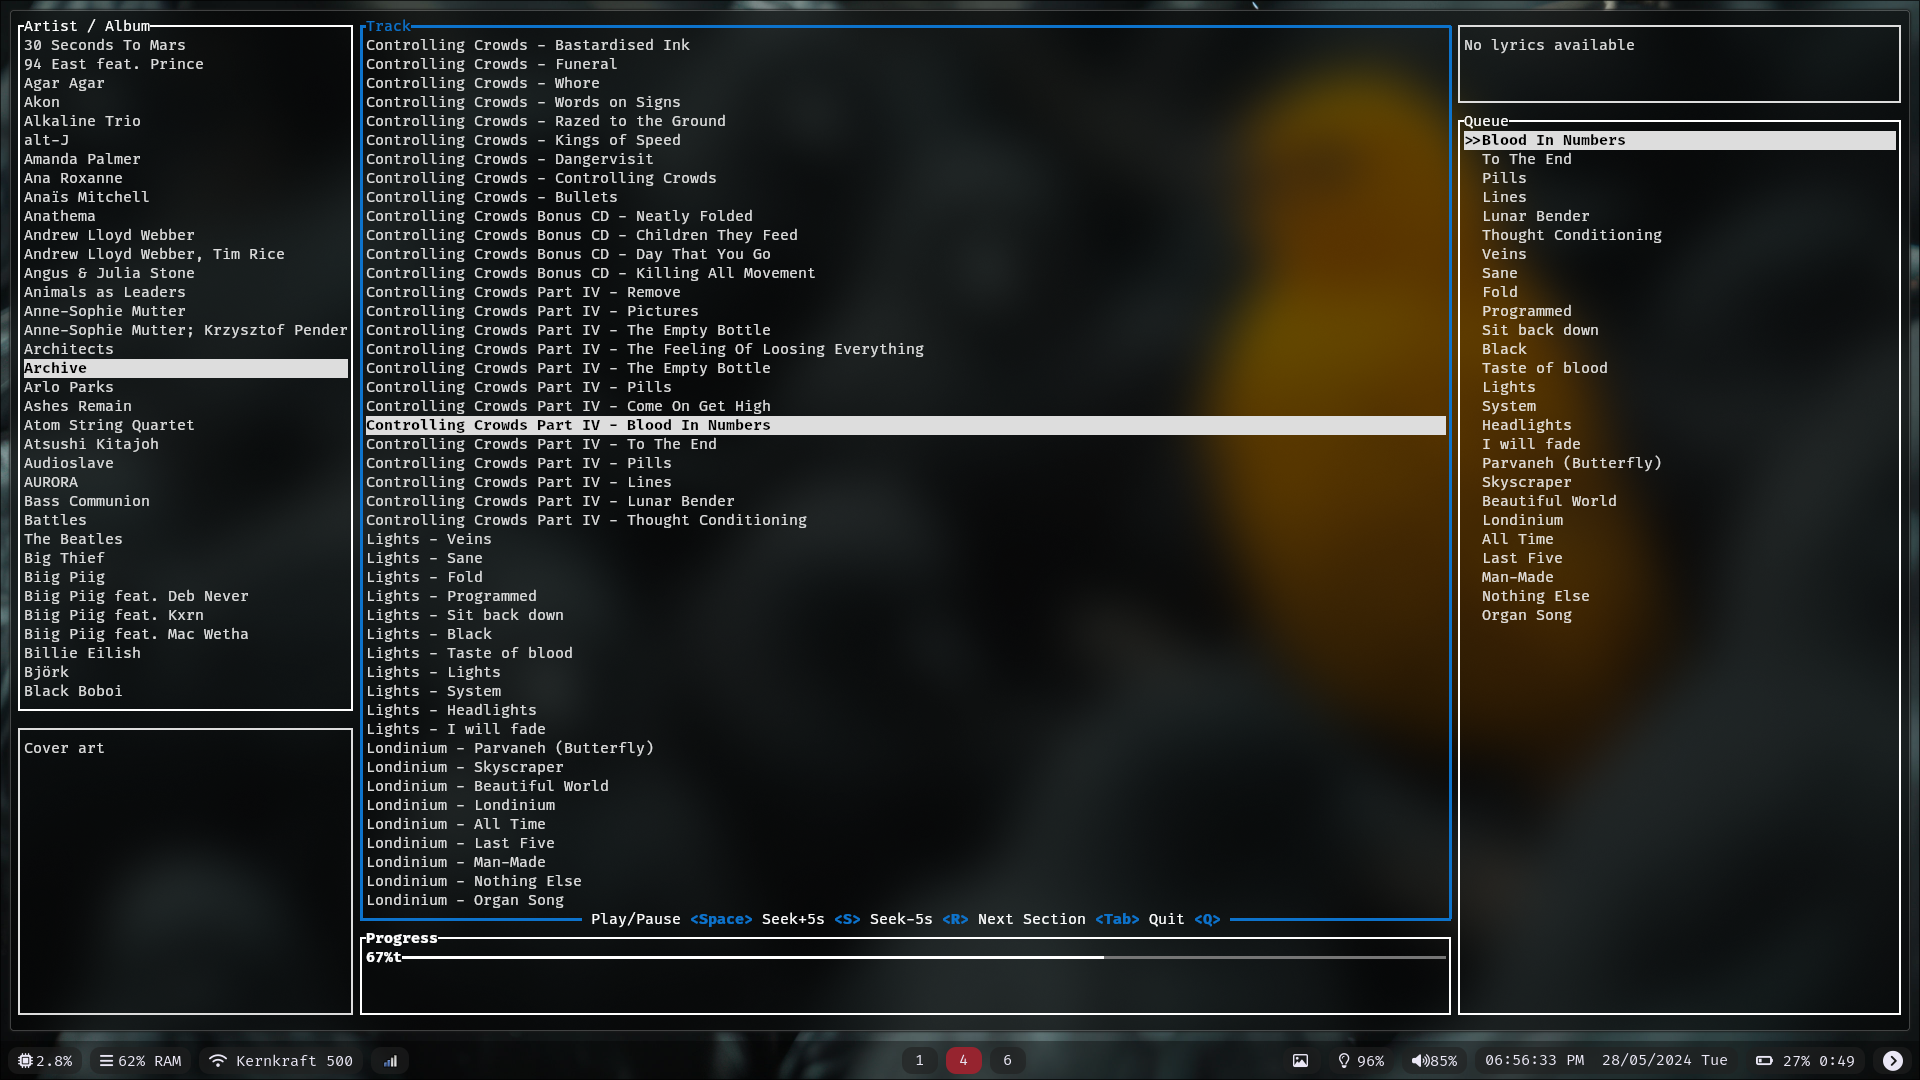
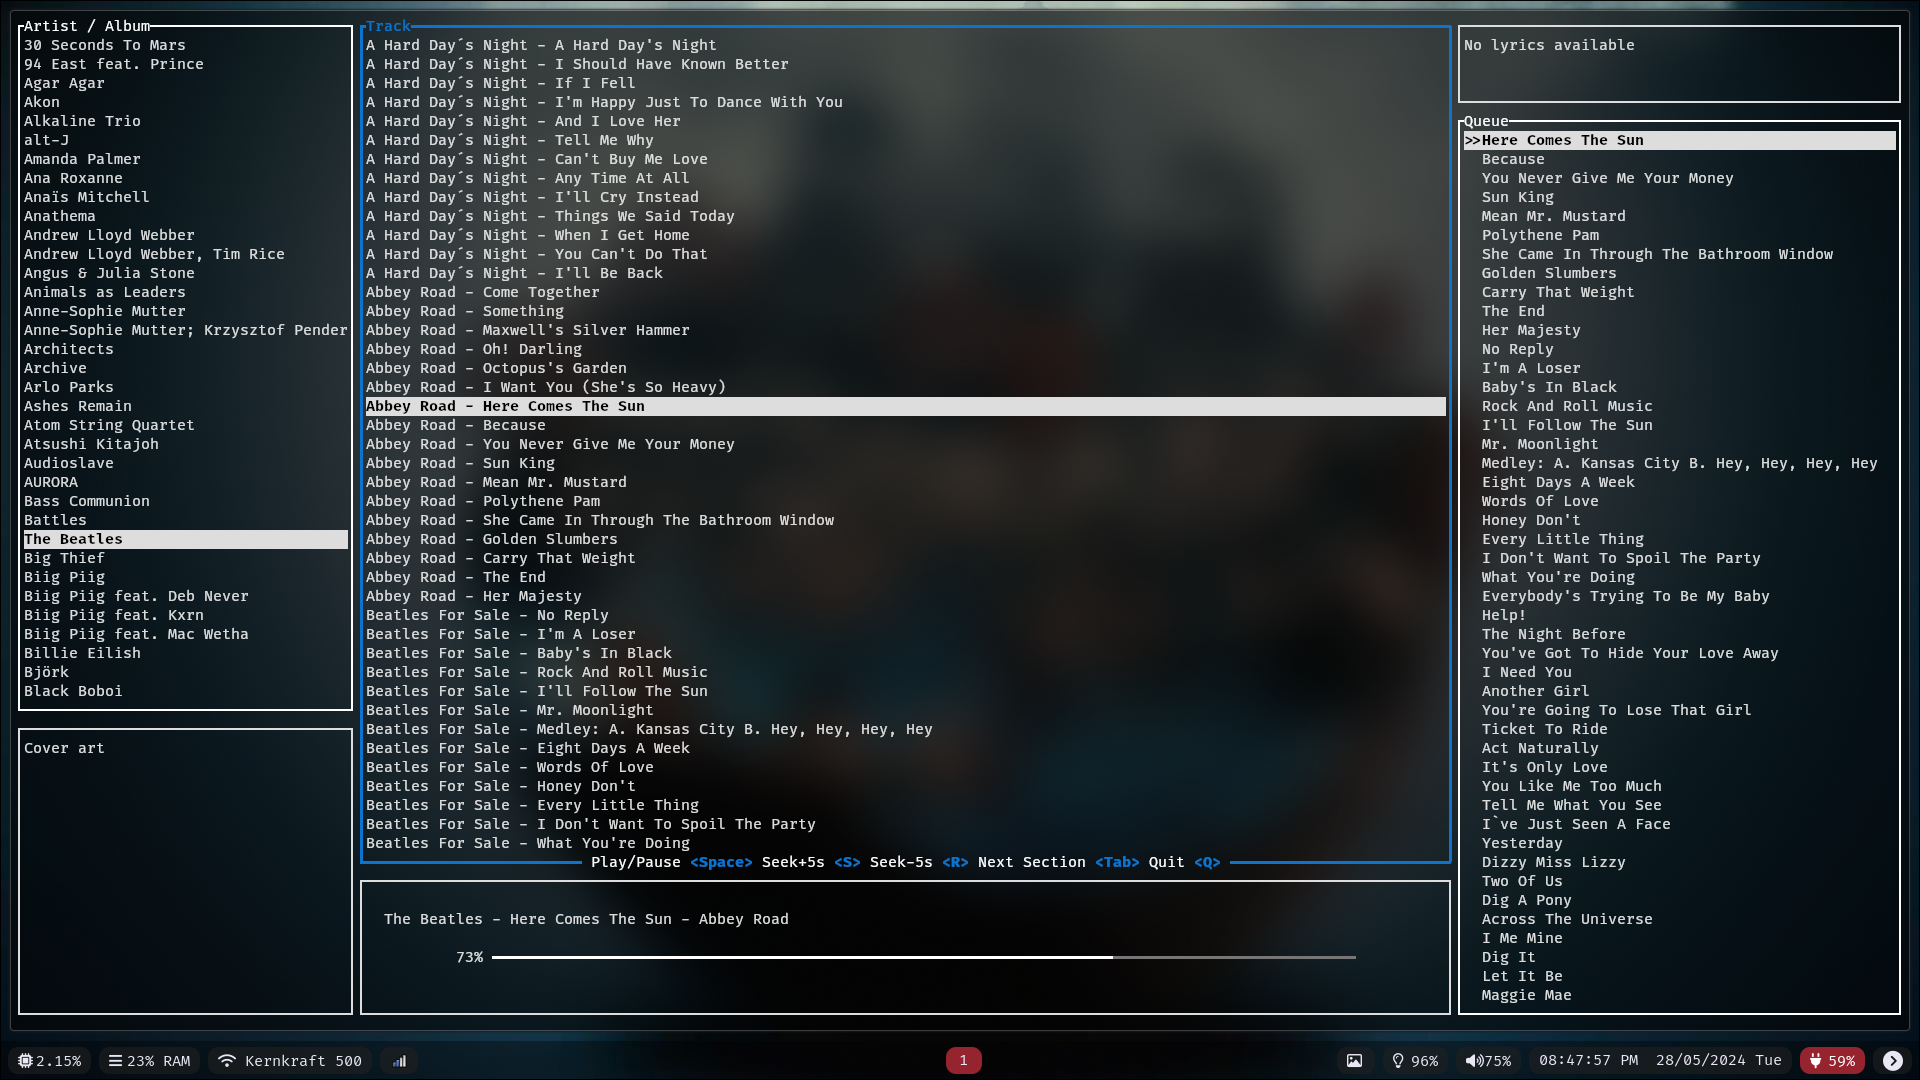
feat: show currently playing song

diff --git a/src/tui.rs b/src/tui.rs
@@ -1,7 +1,9 @@
 use crate::client::{self, Artist, Client, DiscographySong};
+use layout::Flex;
 use libmpv::{events::*, *};
 
 use std::any::Any;
+use std::fmt::format;
 use std::io::{self, stdout, Stdout};
 
 use crossterm::{execute, terminal::*};
@@ -63,7 +65,7 @@ pub struct App {
     pub exit: bool,
     pub artists: Vec<Artist>,
     pub tracks: Vec<DiscographySong>,
-    pub playlist: Vec<(String, String)>, // (URL, Title)
+    pub playlist: Vec<(String, String, String, String)>, // (URL, Title, Artist, Album)
     pub active_section: ActiveSection,
     pub last_section: ActiveSection,
     pub selected_artist: ListState,
@@ -234,7 +236,7 @@ impl App {
 
         let center = Layout::default()
             .direction(Direction::Vertical)
-            .constraints(vec![Constraint::Percentage(90), Constraint::Percentage(10)])
+            .constraints(vec![Constraint::Percentage(85), Constraint::Min(7)])
             .split(outer_layout[1]);
 
         let right = match self.lyrics.as_str() {
@@ -303,20 +305,20 @@ impl App {
 
         frame.render_stateful_widget(list, center[0], &mut self.selected_track);
 
-        frame.render_widget(
-            Paragraph::new("Controls2")
-                .set_style(
-                    Style::default()
-                        .fg(Color::White)
-                        .add_modifier(Modifier::BOLD),
-                )
-                .block(
-                    Block::new()
-                        .borders(Borders::ALL)
-                        .border_style(style::Color::White),
-                ),
-            center[1],
-        );
+        // frame.render_widget(
+        //     Paragraph::new("Controls2")
+        //         .set_style(
+        //             Style::default()
+        //                 .fg(Color::White)
+        //                 .add_modifier(Modifier::BOLD),
+        //         )
+        //         .block(
+        //             Block::new()
+        //                 .borders(Borders::ALL)
+        //                 .border_style(style::Color::White),
+        //         ),
+        //     center[1],
+        // );
 
         // render controls
         frame.render_widget(
@@ -327,9 +329,33 @@ impl App {
                 .split(center[0])[0],
         );
 
+        // currently playing song name. We can get this easily, we have the playlist and the current index
+        let current_song = match self.playlist.get(self.current_playback_state.current_index as usize) {
+            Some(song) => format!("{} - {} - {}", song.2, song.1, song.3),
+            None => String::from("No song playing"),
+        };
+
+        let bottom = Block::default().borders(Borders::ALL).padding(Padding::vertical(1));
+        let inner = bottom.inner(center[1]);
+        frame.render_widget(bottom, center[1]);
+
+        let layout = Layout::vertical(vec![Constraint::Percentage((60)), Constraint::Percentage((40))]).split(inner);
+
+        // current song 
+        frame.render_widget(
+            Paragraph::new(current_song).block(Block::bordered().borders(Borders::NONE).padding(Padding::horizontal(2))),
+            layout[0],
+        );
+
+        let progress_bar_area = Layout::default()
+            .direction(Direction::Horizontal)
+            .flex(Flex::Center)
+            .constraints(vec![Constraint::Percentage(8), Constraint::Percentage(84), Constraint::Percentage(8)])
+            .split(layout[1]);
+
         frame.render_widget(
             LineGauge::default()
-                .block(Block::bordered().title("Progress"))
+                .block(Block::bordered().borders(Borders::NONE))
                 .gauge_style(
                     Style::default()
                         .fg(Color::White)
@@ -338,8 +364,11 @@ impl App {
                 )
                 .line_set(symbols::line::THICK)
                 .ratio(self.current_playback_state.percentage / 100 as f64),
-            center[1],
+                progress_bar_area[1],
         );
+
+        // Render the bordered block around the bottom section
+        // frame.render_widget(bottom_block, center[1]);
 
         match self.lyrics.as_str() {
             "" => {
@@ -519,7 +548,7 @@ impl App {
                                 // change this up, we want to send in the entire tracks array because mpv can play back playlists.
                                 // so take all the tracks from the current index, make a list of strings (URL) using client.song_url_sync
                                 // replace_playlist
-                                self.playlist = self.tracks.iter().skip(selected).map(|track| (client.song_url_sync(track.id.clone()), track.name.clone())).collect();
+                                self.playlist = self.tracks.iter().skip(selected).map(|track| (client.song_url_sync(track.id.clone()), track.name.clone(), track.album_artist.clone(), track.album.clone())).collect();
                                 self.replace_playlist();
 
                             }
@@ -572,7 +601,7 @@ impl App {
         };
     }
 
-    fn t_playlist(songs: Vec<(String, String)>, mpv_state: Arc<Mutex<MpvState>>, sender: Sender<MpvPlaybackState>) {
+    fn t_playlist(songs: Vec<(String, String, String, String)>, mpv_state: Arc<Mutex<MpvState>>, sender: Sender<MpvPlaybackState>) {
         {
             let lock = mpv_state.clone();
             let mpv = lock.lock().unwrap();

diff --git a/src/client.rs b/src/client.rs
@@ -159,7 +159,7 @@ impl Client {
             .header("x-emby-authorization", "MediaBrowser Client=\"jellyfin-tui\", Device=\"jellyfin-tui\", DeviceId=\"None\", Version=\"10.4.3\"")
             .header("Content-Type", "text/json")
             .query(&[
-                ("SortBy", "Album"),
+                ("SortBy", "Album,IndexNumber"),
                 ("SortOrder", "Ascending"),
                 ("Recursive", "true"), 
                 ("IncludeItemTypes", "Audio"),
@@ -516,7 +516,7 @@ pub struct DiscographySong {
     #[serde(rename = "Album")]
     pub album: String,
     #[serde(rename = "AlbumArtist")]
-    album_artist: String,
+    pub album_artist: String,
     // #[serde(rename = "AlbumArtists")]
     // album_artists: Vec<Artist>,
     #[serde(rename = "AlbumId")]